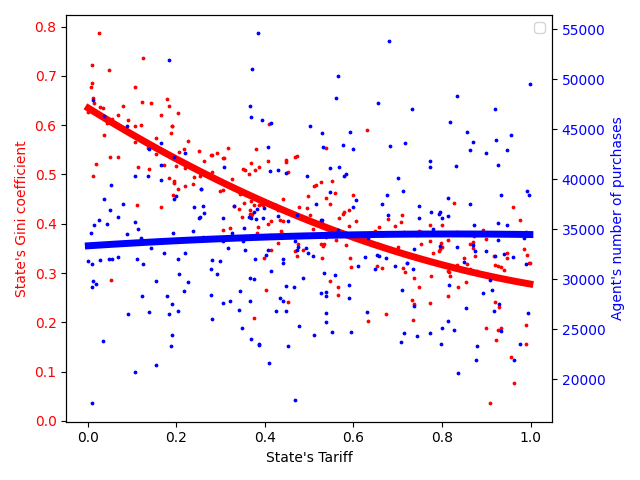
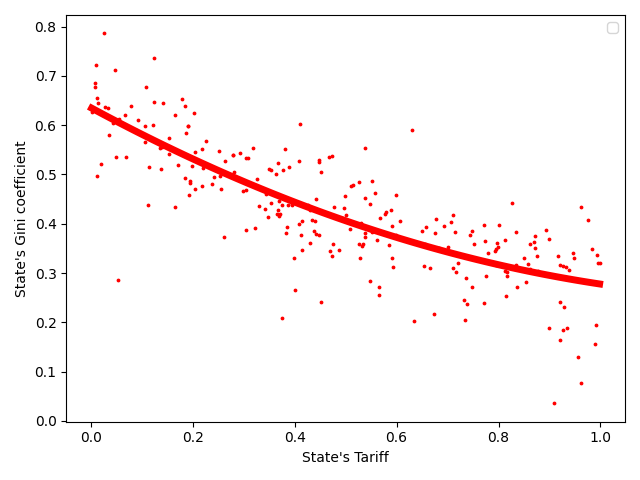
Small update

diff --git a/src/main/python/experiments.py b/src/main/python/experiments.py
@@ -89,7 +89,7 @@ def exp3():
     a.DF_STATES = a.DF_STATES[a.DF_STATES["Allowance"] == "Fair"]
     a.linePointsChart(name + "_1", a.DF_STATES, "Tariff", "Gdp", "NbTransactions")
     a.linePointsChart(name + "_2", a.DF_STATES, "Tariff", "PopTotalMoney", "StateMoney")
-    a.linePointsChart(name + "_3", a.DF_STATES, "Tariff", "Gini", "Purchases")
+    a.linePointsChart(name + "_3", a.DF_STATES, "Tariff", "Gini")
 
 
 def exp4():

diff --git a/src/main/python/analysis.py b/src/main/python/analysis.py
@@ -70,7 +70,6 @@ class Analysis:
         del df["ConnectedStates"]
         # Add Gini coefficient to each State
         df['Gini'] = df['Id'].apply(lambda id_: self.gini(self.DF_AGENTS_PRODUCTS[self.DF_AGENTS["State"] == id_]))
-        df['Purchases'] = df['Id'].apply(lambda id_: self.DF_AGENTS_PRODUCTS[self.DF_AGENTS_PRODUCTS["State"] == id_]['Sales'].sum())
         return df
 
     @staticmethod
